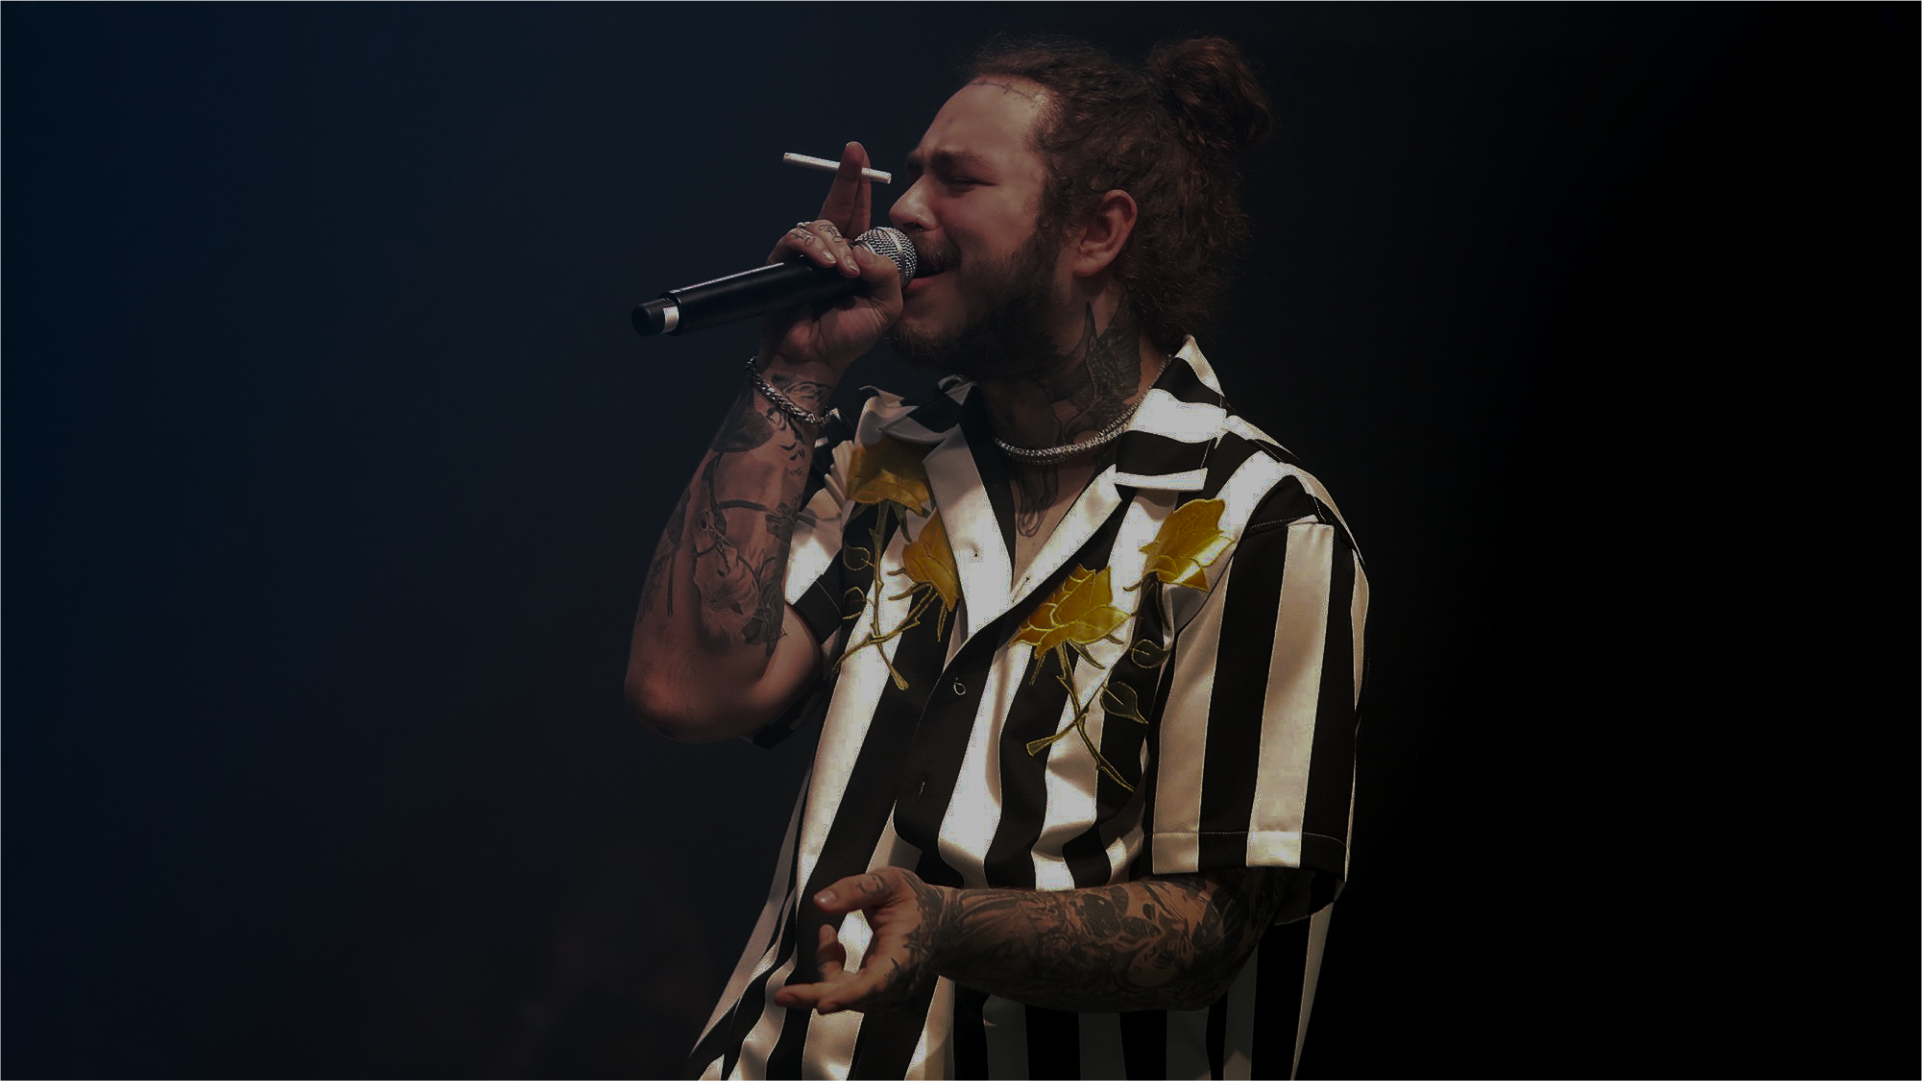
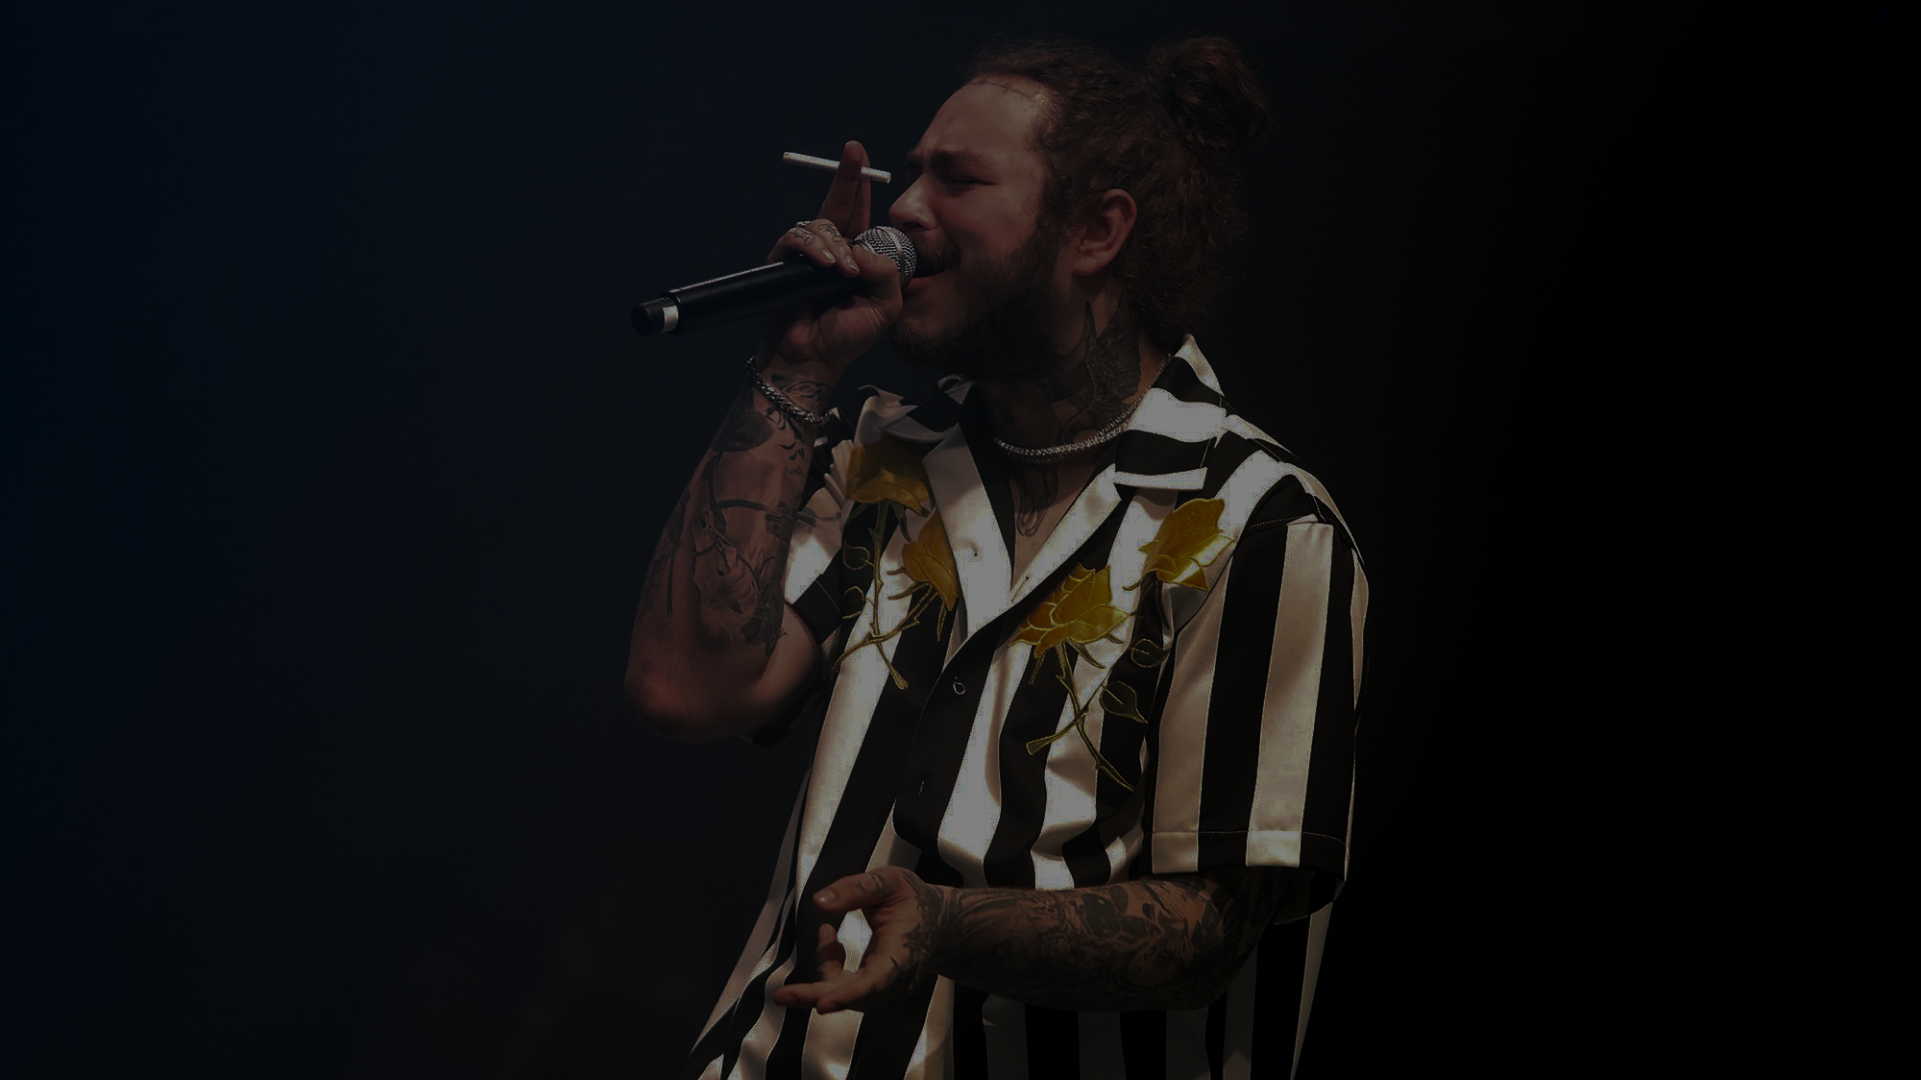
feat: created hero component

diff --git a/src/components/hero/SHero.js b/src/components/hero/SHero.js
@@ -1,0 +1,53 @@
+import styled from "styled-components";
+import bg from '../../assets/png/hero-background.png'
+import { flex } from "../style";
+
+const SHero = styled.section`
+    height: 100vh;
+    background: #f00 url(${bg}) no-repeat center center / cover;
+    ${flex('column', 'center', 'center')};
+    color: #fff;
+    padding: 350rem 400rem;
+
+    div{
+        height: 100%;
+        width: 100%;
+
+        h1{
+            width: 630rem;
+            line-height: 70rem;
+            font-size: 70rem;
+        }
+
+        h2{
+            margin-top: 20rem;
+            font-size: 18rem;
+            font-weight: 100;
+            width: 500rem;
+        }
+
+        div{
+            margin-top: 32rem;
+            ${flex('row', 'start', 'flex-start')};
+            gap: 6rem;
+        }
+   }
+
+   @media (max-width: 1100px) {
+        padding: 35rem 40rem;
+        div{
+            height: auto;
+            width: auto;
+
+            h1, h2{
+            width: auto;
+        }
+        }
+        
+        
+   }
+
+
+`
+
+export default SHero

diff --git a/src/components/header/index.jsx b/src/components/header/index.jsx
@@ -17,7 +17,7 @@ export default function Header(props) {
         // Atualiza o estado com a posição atual de scroll
         setScrollY(window.scrollY);
 
-        if (window.scrollY >= 500) {
+        if (window.scrollY >= 100) {
             setClasseAdicionada(true);
         } else {
             setClasseAdicionada(false);
@@ -46,7 +46,7 @@ export default function Header(props) {
 
     return (
         <SHeader className={classeCSS}>
-            <h1 className={classeCSS}><a href="/">{props.logo}</a></h1>
+            <span className={classeCSS}><a href="/">{props.logo}</a></span>
             <button onClick={click} className={active} aria-label="Menu hamburguer"></button>
 
             <ul className={active}>

diff --git a/src/components/hero/index.jsx b/src/components/hero/index.jsx
@@ -1,0 +1,19 @@
+import SHero from "./SHero"
+import { Button } from '../'
+import { primaryColor } from "../style";
+
+export default function Hero() {
+    return (
+        <SHero>
+            <div>
+                <h1>Ouça novo álbum e músicas do Post Malone</h1>
+                <h2>Ouça mais de 80 milhões de músicas, lançamentos exclusivos e vídeos musicais.</h2>
+
+                <div>
+                    <Button bg='#595959' border='#595959' txt='Ouça novo Album!' color='#fff' hover='#747474' />
+                    <Button bg={primaryColor} border={primaryColor} txt='Sobre' color='#fff' hover='#3cb7ff'/>
+                </div>
+            </div>
+        </SHero>
+    )
+}

diff --git a/src/components/button/index.jsx b/src/components/button/index.jsx
@@ -1,0 +1,27 @@
+import styled from "styled-components"
+
+
+
+export default function Button({txt, bg, border, color, hover}) {
+
+    const SButton = styled.button`
+        border-radius: 8rem;
+        padding: 10rem 20rem;
+        cursor: pointer;
+        background: ${bg};
+        border: 1rem solid ${border};
+        color: ${color};
+        font-size: 18rem;
+        transition: all 300ms ease-in-out;
+        
+        &:hover{
+            background-color: ${hover};
+        }
+
+
+    `
+    
+    return (
+        <SButton>{txt}</SButton>
+    )
+}

diff --git a/src/components/header/SHeader.js b/src/components/header/SHeader.js
@@ -13,11 +13,12 @@ const SHeader = styled.header`
         font-size: 24rem;
     }
 
-    h1{
+    span{
         font-size: 32rem;
         transition: .2s ease-in-out;
         background: transparent;
         height: 60rem;
+        font-weight: bold;
     }
 
     a{
@@ -58,7 +59,7 @@ const SHeader = styled.header`
     }
 
     ul li a{
-        font-size: 14rem;
+        font-size: 16rem;
     }
 
     ul li a::after{

diff --git a/src/App.jsx b/src/App.jsx
@@ -1,10 +1,13 @@
-import { Header } from "./components"
+import { Header, Hero } from "./components"
 
 function App() {
 
   return (
     <>
-      <Header logo='SingUp'/>
+      <Header logo='SingUp' />
+      <main>
+        <Hero/>
+      </main>
     </>
   )
 }

diff --git a/src/components/index.jsx b/src/components/index.jsx
@@ -1,7 +1,10 @@
-import Header from "./header/Header";
-
+import Header from "./header";
+import Hero from "./hero";
+import Button from "./button";
 
 
 export {
-    Header
+    Header,
+    Hero,
+    Button
 }

diff --git a/src/index.css b/src/index.css
@@ -25,10 +25,6 @@ html{
     height: 500vh;
 }
 
-body{
-    background-color: #4e4e4e;
-}
-
 .headerActive{
-    background-color: #2d2d2d6e;
+    background-color: #000;
 }

diff --git a/src/components/style.js b/src/components/style.js
@@ -1,7 +1,5 @@
 import { css } from "styled-components"
 
-
-
 export const primaryColor = '#1695DC'; 
 
 export const flex = (direction, align, justify) => css`
